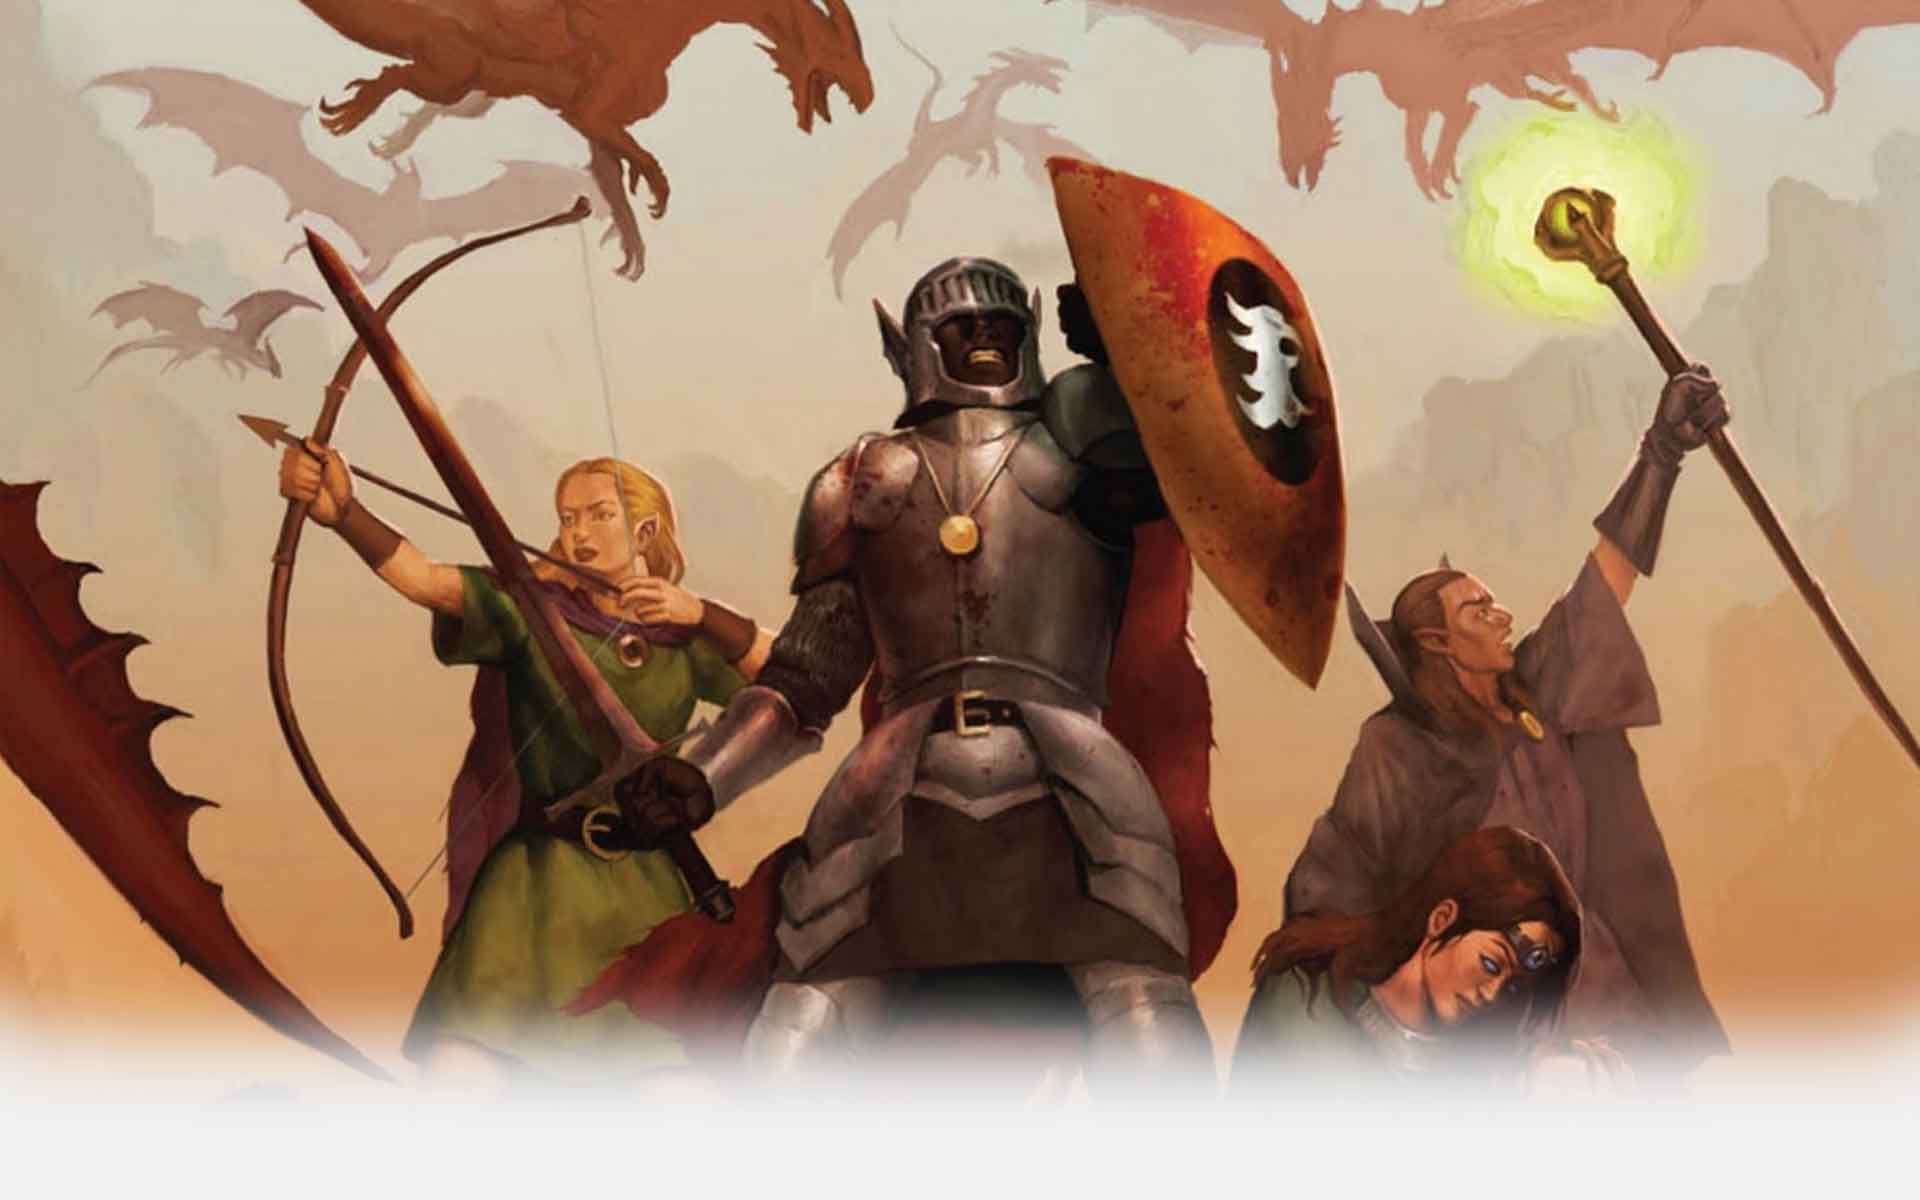
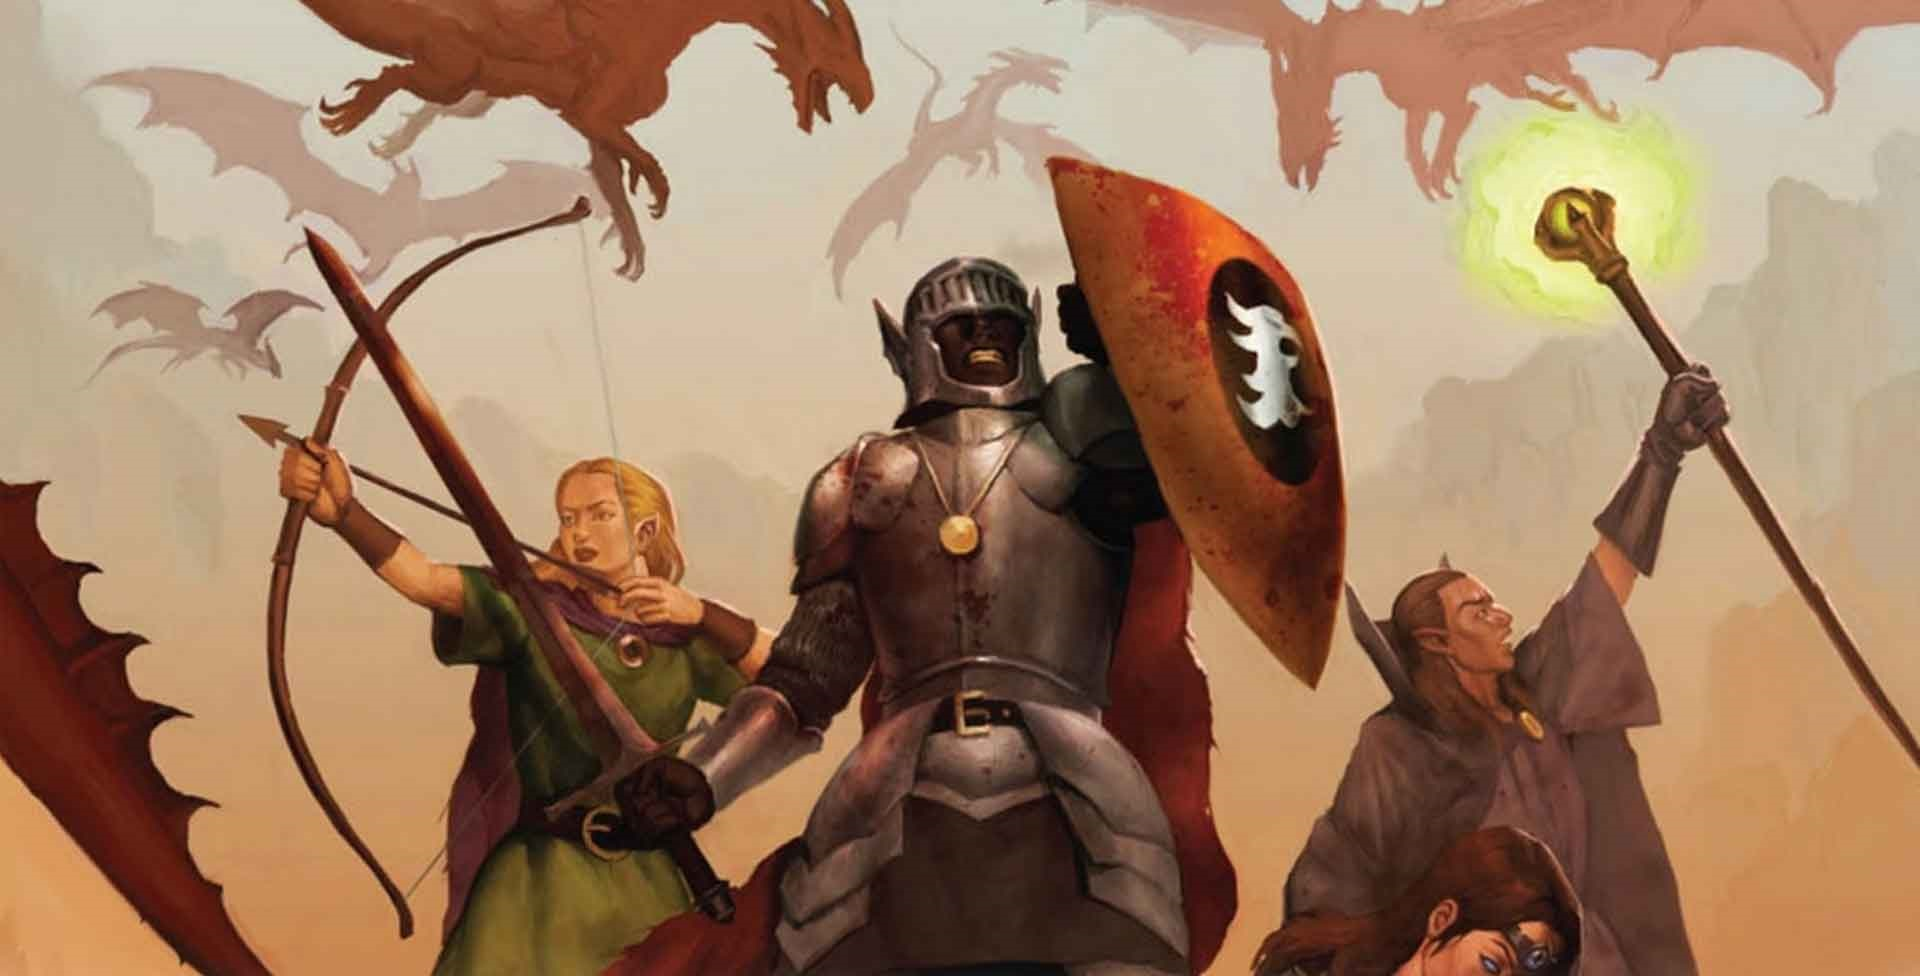
Adicionado icone e splashscreen

diff --git a/app/pages/calculadora-atributos/calculadora-atributos.ts b/app/pages/calculadora-atributos/calculadora-atributos.ts
@@ -1,6 +1,7 @@
 import { Component } from '@angular/core';
 import { NavController } from 'ionic-angular';
 import { Atributos } from '../../classes/atributos';
+import {Splashscreen} from 'ionic-native';
 
 /*
   Generated class for the CalculadoraAtributosPage page.
@@ -103,6 +104,10 @@ export class CalculadoraAtributosPage {
     this.intChanged();
     this.sabChanged();
     this.carChanged();
+  }
+
+  ionViewDidEnter() {
+    Splashscreen.hide();
   }
 
 }

diff --git a/app/app.ts b/app/app.ts
@@ -1,6 +1,6 @@
 import {Component} from '@angular/core';
 import {Platform, ionicBootstrap, MenuController} from 'ionic-angular';
-import {StatusBar} from 'ionic-native';
+import {StatusBar, Splashscreen} from 'ionic-native';
 import {HomePage} from './pages/home/home';
 import {CalculadoraAtributosPage} from './pages/calculadora-atributos/calculadora-atributos';
 

diff --git a/app/pages/calculadora-atributos/calculadora-atributos.scss b/app/pages/calculadora-atributos/calculadora-atributos.scss
@@ -1,7 +1,9 @@
 
 .calculadora-atributos{
     background: url('../img/old-dragon-bg.jpg');
-    font-family: 'breath-fire'
+    font-family: 'breath-fire';
+    background-size: cover;
+    background-position: center;
 }
 
 .calculadora-atributos-toolbar-title{

diff --git a/app/classes/raca.ts b/app/classes/raca.ts
@@ -1,0 +1,7 @@
+export class Raca {
+    private nome: string;
+    private altura: number;
+    private classeDeArmadura: number;
+    private bonusDeAtaque: number;
+
+}

diff --git a/app/classes/habilidades.ts b/app/classes/habilidades.ts
@@ -1,0 +1,4 @@
+export class Habilidades {
+    private nome: string;
+    private descricao: string;
+}
